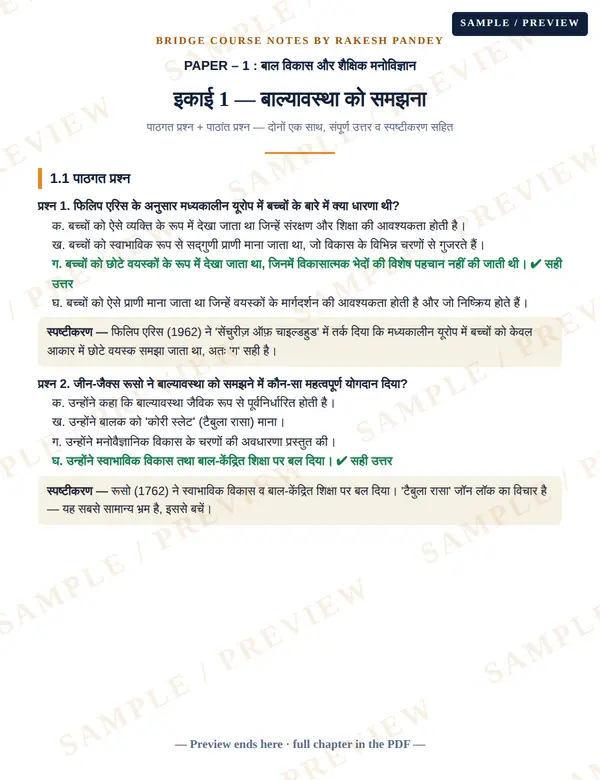
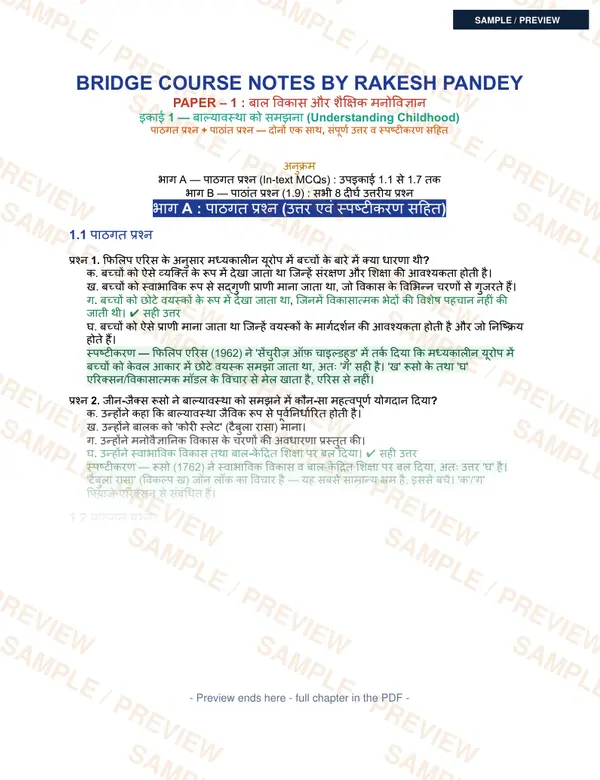
Bridge Course: build the product PDF, real-page sample previews
build_product_pdf.py assembles Google's PDF exports of the 40 chapter Docs
into one book (cover, contents, page numbers, Paper/chapter bookmarks):
198 pages, 5.4 MB. The PDF and chapter exports stay in the git-ignored
content/source/ folder.

Landing-page samples are now real first pages of three chapters, lower
half faded out and watermarked. Paper 2 and 3 numbers confirmed from the
notes and added to the chapter list.

Claude-Session: https://claude.ai/code/session_01XZ69XoEj2LFRUnG6JLpkma

diff --git a/bridge-course/src/config.ts b/bridge-course/src/config.ts
@@ -43,8 +43,8 @@ export const product = {
 
 // ---------------------------------------------------------------------------
 // What's inside — taken from the source folder "bridge course notes by Rakesh pandey"
-// (Google Drive, inspected 2026-09-25). Paper numbers are shown only where the notes
-// themselves print them. If the compiled PDF differs, update this list.
+// (Google Drive, exported 2026-09-27). Paper numbers are as printed in the notes.
+// Must match the final PDF (content/source/manifest.json order).
 // ---------------------------------------------------------------------------
 
 export type Paper = {
@@ -64,14 +64,16 @@ export const papers: Paper[] = [
     chapters: ['बाल्यावस्था को समझना', 'बाल्यावस्था और समाजीकरण', 'स्व की भारतीय अवधारणा'],
   },
   {
+    number: 2,
     title: 'Curriculum, Pedagogy and Assessment',
-    titleHi: 'पाठ्यचर्या, शिक्षाशास्त्र एवं आकलन',
+    titleHi: 'पाठ्यचर्या, शिक्षाशास्त्र एवं मूल्यांकन',
     language: 'Hindi',
     chapters: ['पाठ्यचर्या'],
   },
   {
+    number: 3,
     title: 'Pedagogy of Language-I',
-    titleHi: 'भाषा-I का शिक्षाशास्त्र',
+    titleHi: 'भाषा का शिक्षाशास्त्र-I',
     language: 'Hindi',
     chapters: [
       'भाषा-शिक्षा की विभिन्न नीतियाँ एवं बहुभाषिकता',
@@ -193,7 +195,8 @@ export const howItWorks = [
   'Download your notes',
 ]
 
-// Sample pages: typeset excerpts from real chapters. Only the top part of 3 of the
+// Sample pages: real pages of the final PDF with the lower half faded out and a
+// watermark (scripts/previews/render_previews_from_pdf.py). Only the top of 3 of the
 // 40 chapters is shown, so the paid PDF can't be reconstructed from previews.
 export const samples = [
   { src: 'previews/sample-1.webp', alt: 'Sample page — Paper 1, इकाई 1: बाल्यावस्था को समझना (in-text MCQs with explanations)' },

diff --git a/bridge-course/scripts/build_product_pdf.py b/bridge-course/scripts/build_product_pdf.py
@@ -1,0 +1,187 @@
+"""Assemble the sellable PDF from the per-chapter Google Docs exports.
+
+Input : content/source/parts/*.pdf (exact "File → Download → PDF" exports, named as in
+        content/source/manifest.json) — git-ignored, never committed.
+Output: content/source/Bridge Course Notes by Rakesh Pandey.pdf
+
+Adds a cover page and a contents list (typeset with Chromium so Hindi renders
+correctly), page numbers on every chapter page, and a bookmark outline (Paper →
+chapter) so the PDF is easy to navigate on a phone. Chapter pages themselves are the
+author's exports, unchanged.
+
+Usage:
+  pip install pymupdf playwright
+  FONT_DIR=/path/to/node_modules/@fontsource \
+    python3 bridge-course/scripts/build_product_pdf.py
+(@fontsource/noto-sans-devanagari, noto-serif-devanagari, inter, source-serif-4)
+"""
+import json
+import os
+import re
+import sys
+from html import escape
+from pathlib import Path
+
+import pymupdf
+from playwright.sync_api import sync_playwright
+
+ROOT = Path(__file__).resolve().parents[2]
+SRC = ROOT / "content" / "source"
+OUT = SRC / "Bridge Course Notes by Rakesh Pandey.pdf"
+FONT_DIR = os.environ.get("FONT_DIR")
+CHROMIUM = os.environ.get("CHROMIUM_PATH")  # optional explicit browser path
+
+PAPERS = {  # paper number → (English title, Hindi title) as printed in the notes
+    "cdep": (1, "Child Development and Educational Psychology", "बाल विकास और शैक्षिक मनोविज्ञान"),
+    "cpa": (2, "Curriculum, Pedagogy and Assessment", "पाठ्यचर्या, शिक्षाशास्त्र एवं मूल्यांकन"),
+    "lang1": (3, "Pedagogy of Language-I", "भाषा का शिक्षाशास्त्र-I"),
+    "lang2": (4, "Pedagogy of Language-II (English)", ""),
+    "math": (5, "Pedagogy of Mathematics", "गणित का शिक्षाशास्त्र"),
+    "twau": (6, "Pedagogy of The World Around Us", "हमारे आस-पास की दुनिया (TWAU) का शिक्षाशास्त्र"),
+}
+
+
+def chapter_label(doc_title: str) -> str:
+    return re.sub(r"\s*\(Bridge Course Notes by Rakesh pandey\)\s*$", "", doc_title, flags=re.I)
+
+
+def font_css() -> str:
+    f = FONT_DIR
+    faces = [
+        ("NS", 400, "noto-sans-devanagari/files/noto-sans-devanagari-devanagari-400-normal.woff2"),
+        ("NS", 700, "noto-sans-devanagari/files/noto-sans-devanagari-devanagari-700-normal.woff2"),
+        ("NSer", 700, "noto-serif-devanagari/files/noto-serif-devanagari-devanagari-700-normal.woff2"),
+        ("In", 400, "inter/files/inter-latin-400-normal.woff2"),
+        ("In", 600, "inter/files/inter-latin-600-normal.woff2"),
+        ("In", 700, "inter/files/inter-latin-700-normal.woff2"),
+        ("SS", 700, "source-serif-4/files/source-serif-4-latin-700-normal.woff2"),
+    ]
+    return "".join(
+        f"@font-face{{font-family:{n};font-weight:{w};src:url(file://{f}/{p})}}" for n, w, p in faces
+    )
+
+
+def front_matter_html(entries, total_pages: int) -> str:
+    rows = []
+    for e in entries:
+        if e["kind"] == "paper":
+            hi = f' <span class="hi">· {escape(e["hi"])}</span>' if e["hi"] else ""
+            rows.append(f'<tr class="paper"><td colspan="2">Paper {e["num"]}: {escape(e["title"])}{hi}</td></tr>')
+        else:
+            rows.append(f'<tr><td class="ch">{escape(e["title"])}</td><td class="pg">{e["page"]}</td></tr>')
+    return f"""<!doctype html><html><head><meta charset="utf-8"><style>
+{font_css()}
+@page {{ size: Letter; margin: 0 }}
+* {{ box-sizing: border-box; margin: 0 }}
+body {{ font-family: In, NS, sans-serif; color: #10213a }}
+.cover {{ height: 11in; background: #10213a; color: #fbf7ee; padding: 1.2in 0.9in; position: relative; page-break-after: always }}
+.badge {{ display: inline-block; border: 1.5px solid #f4a340; color: #f4a340; border-radius: 99px; padding: 6px 16px; font-weight: 700; letter-spacing: .2em; font-size: 12pt }}
+h1 {{ font-family: SS, NSer, serif; font-size: 48pt; line-height: 1.05; margin-top: 28px }}
+.by {{ font-family: SS, serif; font-size: 24pt; color: #e6dcc4; margin-top: 10px }}
+.rule {{ width: 90px; height: 5px; background: #e8871e; margin: 36px 0 }}
+.papers {{ font-size: 13pt; line-height: 1.9; color: #d7dfea }}
+.papers b {{ color: #f4a340 }}
+.meta {{ position: absolute; left: .9in; right: .9in; bottom: .9in; font-size: 10.5pt; color: #a9b6c8; line-height: 1.6 }}
+.toc {{ padding: .7in .8in .6in; }}
+.toc h2 {{ font-family: SS, serif; font-size: 26pt }}
+.toc p.note {{ color: #5b6f8c; font-size: 10pt; margin-top: 4px }}
+table {{ width: 100%; border-collapse: collapse; margin-top: 14px; font-size: 10.5pt }}
+tr.paper td {{ padding: 12px 0 4px; font-weight: 700; color: #a25608; font-size: 11pt; border-bottom: 1.5px solid #e8871e }}
+tr.paper .hi {{ font-weight: 400; color: #5b6f8c }}
+td {{ padding: 3px 0; vertical-align: top }}
+td.ch {{ padding-left: 10px }}
+td.pg {{ text-align: right; width: 44px; font-variant-numeric: tabular-nums; color: #5b6f8c }}
+tr {{ page-break-inside: avoid }}
+</style></head><body>
+<section class="cover">
+  <span class="badge">BRIDGE COURSE 2.0</span>
+  <h1>Bridge Course<br>Notes</h1>
+  <p class="by">by Rakesh Pandey</p>
+  <div class="rule"></div>
+  <div class="papers">{"<br>".join(f"<b>Paper {n}</b> &nbsp;{escape(t)}" for n, t, _ in PAPERS.values())}</div>
+  <p class="meta">{sum(1 for e in entries if e['kind']=='chapter')} chapter notes · {total_pages} pages<br>
+  In-text questions with answers &amp; explanations · end-of-unit answers · quick revision lists<br><br>
+  Licensed for the buyer’s personal study only. Please do not share, forward or resell this PDF.</p>
+</section>
+<section class="toc"><h2>Contents</h2><p class="note">Tap a chapter in your PDF app’s bookmarks/outline to jump to it.</p>
+<table>{"".join(rows)}</table></section>
+</body></html>"""
+
+
+def render_front(html: str, path: Path) -> int:
+    with sync_playwright() as p:
+        b = p.chromium.launch(executable_path=CHROMIUM) if CHROMIUM else p.chromium.launch()
+        page = b.new_page()
+        page.set_content(html, wait_until="load")
+        page.evaluate("document.fonts.ready")
+        page.pdf(path=str(path), format="Letter", print_background=True, prefer_css_page_size=True)
+        b.close()
+    return pymupdf.open(path).page_count
+
+
+def main():
+    if not FONT_DIR:
+        sys.exit("Set FONT_DIR to node_modules/@fontsource (see docstring).")
+    manifest = json.loads((SRC / "manifest.json").read_text())
+    body = pymupdf.open()
+    chapters = []  # (paper_key, label, start_index_in_body)
+    for paper in manifest["papers"]:
+        for ch in paper["chapters"]:
+            f = SRC / "parts" / ch["file"]
+            if not f.exists():
+                sys.exit(f"Missing {f}")
+            key = ch["file"].rsplit("-", 1)[0]
+            chapters.append((key, chapter_label(ch["docTitle"]), body.page_count))
+            body.insert_pdf(pymupdf.open(f))
+
+    tmp = SRC / ".front.pdf"
+    front_pages = 2
+    for _ in range(3):  # contents length can change the offsets; iterate until stable
+        entries, last = [], None
+        for key, label, start in chapters:
+            if key != last:
+                n, t, hi = PAPERS[key]
+                entries.append({"kind": "paper", "num": n, "title": t, "hi": hi})
+                last = key
+            entries.append({"kind": "chapter", "title": label, "page": front_pages + start + 1})
+        got = render_front(front_matter_html(entries, front_pages + body.page_count), tmp)
+        if got == front_pages:
+            break
+        front_pages = got
+
+    book = pymupdf.open(tmp)
+    book.insert_pdf(body)
+    tmp.unlink()
+
+    # Page numbers (not on the cover).
+    total = book.page_count
+    for i in range(1, total):
+        pg = book[i]
+        r = pg.rect
+        pg.insert_textbox(
+            pymupdf.Rect(0, r.height - 30, r.width, r.height - 14),
+            f"Bridge Course Notes by Rakesh Pandey  ·  {i + 1} / {total}",
+            fontsize=7.5, fontname="helv", color=(0.45, 0.5, 0.58), align=pymupdf.TEXT_ALIGN_CENTER,
+        )
+
+    toc, last = [[1, "Cover", 1], [1, "Contents", 2]], None
+    for key, label, start in chapters:
+        if key != last:
+            n, t, _ = PAPERS[key]
+            toc.append([1, f"Paper {n}: {t}", front_pages + start + 1])
+            last = key
+        toc.append([2, label, front_pages + start + 1])
+    book.set_toc(toc)
+    book.set_metadata({
+        "title": "Bridge Course Notes by Rakesh Pandey",
+        "author": "Rakesh Pandey",
+        "subject": "Bridge Course 2.0 — chapter-wise notes (6 papers)",
+        "creator": "Bridge Course Notes",
+    })
+    book.save(OUT, garbage=3, deflate=True)
+    size = OUT.stat().st_size / 1024 / 1024
+    print(f"Wrote {OUT.relative_to(ROOT)} — {total} pages ({front_pages} front + {body.page_count} chapter), {size:.2f} MB")
+
+
+if __name__ == "__main__":
+    main()

diff --git a/bridge-course/scripts/previews/render_previews_from_pdf.py b/bridge-course/scripts/previews/render_previews_from_pdf.py
@@ -1,0 +1,65 @@
+"""Render the landing-page SAMPLE / PREVIEW images from real pages of the final PDF.
+
+Only the upper part of each chosen page stays readable: the lower part is faded out,
+and the whole image is watermarked, so previews can't substitute for the product.
+
+  pip install pymupdf
+  python3 bridge-course/scripts/previews/render_previews_from_pdf.py
+  node bridge-course/scripts/previews/to-webp.mjs   # PNG → WebP (needs sharp)
+"""
+from pathlib import Path
+
+import pymupdf
+
+ROOT = Path(__file__).resolve().parents[3]
+PDF = ROOT / "content" / "source" / "Bridge Course Notes by Rakesh Pandey.pdf"
+OUT = ROOT / "bridge-course" / "public" / "previews"
+
+# Chapter titles whose FIRST page is used (matched against the PDF bookmarks).
+CHOSEN = [
+    "इकाई 1 - बाल्यावस्था को समझना",
+    "Unit 4 - Word Recognition: Various Strategies",
+    "इकाई 1 - हमारे आस-पास की दुनिया (TWAU) का स्वरूप तथा क्षेत्र",
+]
+VISIBLE = 0.52  # fraction of the page height left readable
+ORANGE = (0.79, 0.43, 0.05)
+
+
+def main():
+    src = pymupdf.open(PDF)
+    starts = {title: page for level, title, page in src.get_toc() if level == 2}
+    OUT.mkdir(parents=True, exist_ok=True)
+    for n, title in enumerate(CHOSEN, 1):
+        doc = pymupdf.open()
+        doc.insert_pdf(src, from_page=starts[title] - 1, to_page=starts[title] - 1)
+        pg = doc[0]
+        r = pg.rect
+        # Fade: stacked white bands of rising opacity, then solid white.
+        top, steps = r.height * VISIBLE, 24
+        band = r.height * 0.16 / steps
+        for i in range(steps):
+            y = top + i * band
+            pg.draw_rect(pymupdf.Rect(0, y, r.width, y + band + 0.5), color=None, fill=(1, 1, 1),
+                         fill_opacity=(i + 1) / steps, overlay=True)
+        pg.draw_rect(pymupdf.Rect(0, top + steps * band, r.width, r.height), color=None, fill=(1, 1, 1), overlay=True)
+        pg.insert_textbox(pymupdf.Rect(0, r.height - 90, r.width, r.height - 60),
+                          "- Preview ends here - full chapter in the PDF -",
+                          fontsize=11, fontname="helv", color=(0.36, 0.43, 0.55), align=pymupdf.TEXT_ALIGN_CENTER)
+        # Diagonal watermark grid.
+        for row in range(-2, 9):
+            for col in range(-1, 3):
+                p = pymupdf.Point(col * 260 + (row % 2) * 130, row * 110)
+                pg.insert_text(p, "SAMPLE / PREVIEW", fontsize=26, fontname="hebo", color=ORANGE,
+                               fill_opacity=0.12, stroke_opacity=0.12,
+                               morph=(p, pymupdf.Matrix(1, 1).prerotate(-28)))
+        # Corner tag.
+        tag = pymupdf.Rect(r.width - 150, 10, r.width - 12, 30)
+        pg.draw_rect(tag, color=None, fill=(0.06, 0.13, 0.23), overlay=True)
+        pg.insert_text((tag.x0 + 22, tag.y1 - 6), "SAMPLE / PREVIEW", fontsize=9, fontname="hebo", color=(1, 1, 1))
+        pix = pg.get_pixmap(dpi=94)  # ≈ 800 px wide
+        pix.save(OUT / f"sample-{n}.png")
+        print("wrote", (OUT / f"sample-{n}.png").relative_to(ROOT), pix.width, "x", pix.height)
+
+
+if __name__ == "__main__":
+    main()

diff --git a/content/source/README.md b/content/source/README.md
@@ -27,16 +27,19 @@ Drive connector.
 `content/source/Bridge Course Notes by Rakesh Pandey.pdf` — one PDF, all 40 chapters in
 the order of `manifest.json`.
 
-## How to produce it
+## How it was produced (27 Sep 2026)
 
-1. In each Google Doc: **File → Download → PDF document**. Save it into
-   `content/source/parts/` with the `file` name from `manifest.json`
-   (e.g. `cdep-01.pdf`, `lang2-04.pdf`). Optionally put a cover page first as `cover.pdf`
-   and add it to the manifest.
-2. `cd bridge-course && npm install && npm run product:inspect -- --merge`
-   — merges in order, then prints page count, size and page size.
-3. Open the result and read the cover, the contents and a few pages of every paper.
-4. Upload it to **private** Supabase Storage (see `docs/SUPABASE_SETUP.md` → Storage).
+1. Each of the 40 Google Docs was exported with Google's own PDF export (identical to
+   **File → Download → PDF**) into `content/source/parts/<file>.pdf` (names from `manifest.json`).
+2. `bridge-course/scripts/build_product_pdf.py` assembled them: cover page, 2-page
+   contents list, the 40 chapters unchanged, page numbers, bookmarks (Paper → chapter).
+   Result: **198 pages, 5.4 MB, US Letter**.
+3. `npm run product:inspect` (in `bridge-course/`) confirms it opens and reports size/pages.
 
-Resolve the three notes in `manifest.json` (duplicate Unit 11, missing TWAU units 3–4,
+To rebuild after editing a Doc: re-export that Doc into `parts/` under the same name, run
+`FONT_DIR=… python3 bridge-course/scripts/build_product_pdf.py`, re-upload to Storage
+(see `docs/SUPABASE_SETUP.md` §4), and optionally re-run
+`scripts/previews/render_previews_from_pdf.py` for the landing-page samples.
+
+Resolve the notes in `manifest.json` (duplicate Unit 11, missing TWAU units 3–4,
 single-unit Curriculum paper) before selling.

diff --git a/docs/BRIDGE_COURSE_IMPLEMENTATION.md b/docs/BRIDGE_COURSE_IMPLEMENTATION.md
@@ -33,7 +33,8 @@ Course admins are an explicit allow-list (`bridge_admins`).
 
 Found in Google Drive (not synced to this machine) via the Drive connector:
 `bridge course notes by Rakesh pandey/` → 6 sub-folders, **40 chapter Google Docs**
-(+1 duplicate). No compiled PDF exists. Details, the required production file and how to
+(+1 duplicate). There was no compiled PDF; it was built on 27 Sep 2026 from Google's PDF
+exports of each Doc (198 pages, 5.4 MB). Details, the required production file and how to
 build it: [`content/source/README.md`](../content/source/README.md) and
 [`content/source/manifest.json`](../content/source/manifest.json).
 
@@ -152,10 +153,11 @@ done in the Razorpay Dashboard; a full refund automatically disables access via 
 `refund.processed` webhook.
 
 ### Sample pages
-`public/previews/sample-*.webp` are typeset from the first part of three real chapters
-(`scripts/previews/samples.mjs`), watermarked "SAMPLE / PREVIEW" and faded before the end.
-Once the final PDF exists you may replace them with real page renders (`pdftoppm`, crop the
-lower half, keep the watermark). Keep to ≤ 4 partial pages.
+`public/previews/sample-*.webp` are real first pages of three chapters of the final PDF
+(Paper 1 Unit 1, Paper 4 Unit 4, Paper 6 Unit 1) with the lower half faded out and a
+"SAMPLE / PREVIEW" watermark — `scripts/previews/render_previews_from_pdf.py` then
+`to-webp.mjs`. Keep to ≤ 4 partial pages. The share image is rebuilt with
+`render-previews.mjs --og-only`.
 
 ## 7. Phase 2 — buyer watermarking (not built)
 
